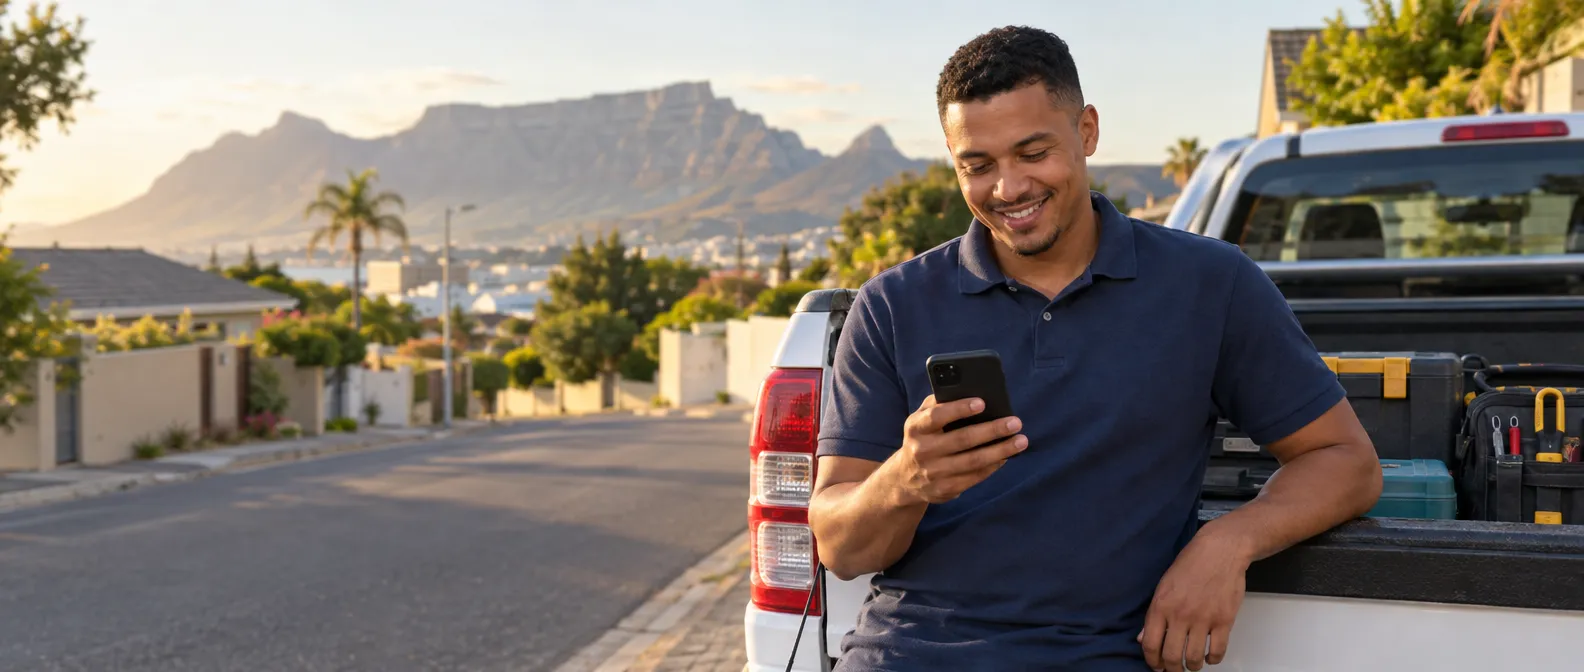
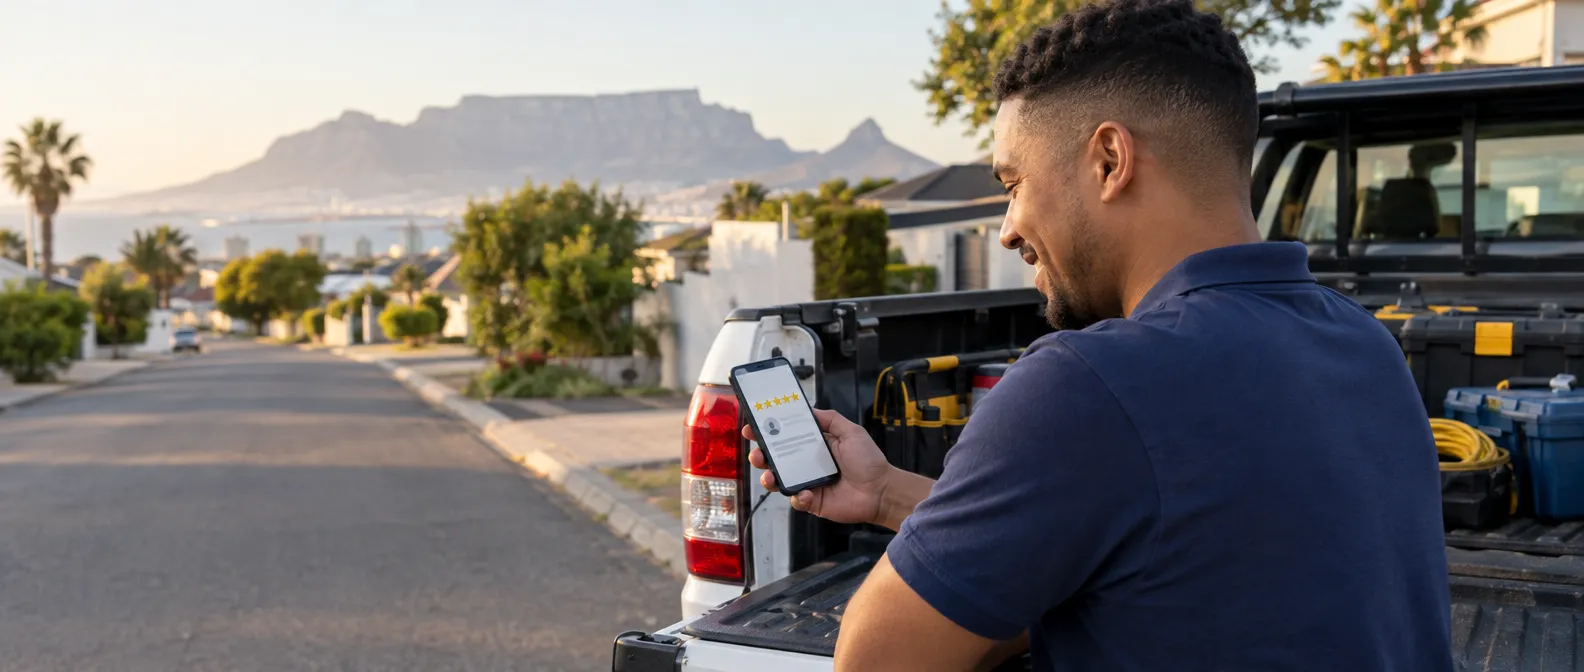
Reviews page: over-the-shoulder photos (Jeremy)

diff --git a/src/components/reviews-light/ReviewsLight.tsx b/src/components/reviews-light/ReviewsLight.tsx
@@ -15,7 +15,8 @@ import { PROOF_NUMBERS } from '../section-library/sections/clientProof';
 import SiteChat from '../demo-popup/DemoPopup';
 import BusinessSearchBox from '../demo-popup/BusinessSearchBox';
 import { openSiteChat } from '../demo-popup/openSiteChat';
-// Photos made for this page on 9 Oct 2026 in the homepage's photographic style (FAL). The man in the navy polo
+// Photos made for this page on 9 Oct 2026 in the homepage's photographic style (FAL), shot over the shoulder so the
+// review shows on a screen that faces the person (Jeremy: stars on the back of the phone looked unnatural). The man in the navy polo
 // follows Jeremy's brief from 7 Oct ("30's coloured south african decent looking"); the dog groomer shows the
 // page is for any business people look up, not only trades.
 import heroWide from './img/hero-wide.webp';
@@ -169,7 +170,7 @@ export default function ReviewsLight() {
                 <source media="(max-width: 767px)" srcSet={heroPhone} width={896} height={672} />
                 <img
                   src={heroWide}
-                  alt="A business owner leaning on his bakkie after a job, smiling at a new 5-star Google review on his phone"
+                  alt="Over his shoulder: a business owner at his bakkie after a job, smiling at a new 5-star Google review on his phone"
                   width={1584}
                   height={672}
                 />
@@ -369,7 +370,7 @@ export default function ReviewsLight() {
           title="Start getting Google reviews this month."
           items={RECAP}
           photo={closingPhoto}
-          photoAlt="A dog groomer smiling at a new 5-star Google review on her phone, with a freshly groomed spaniel beside her"
+          photoAlt="Over her shoulder: a dog groomer smiling at a new 5-star Google review on her phone, with a freshly groomed spaniel on the counter"
           href={SITE_WHATSAPP_URL}
           // Opens the chat first, so the lead is saved before WhatsApp opens (picked 9 Oct 2026)
           onClick={(e) => {
